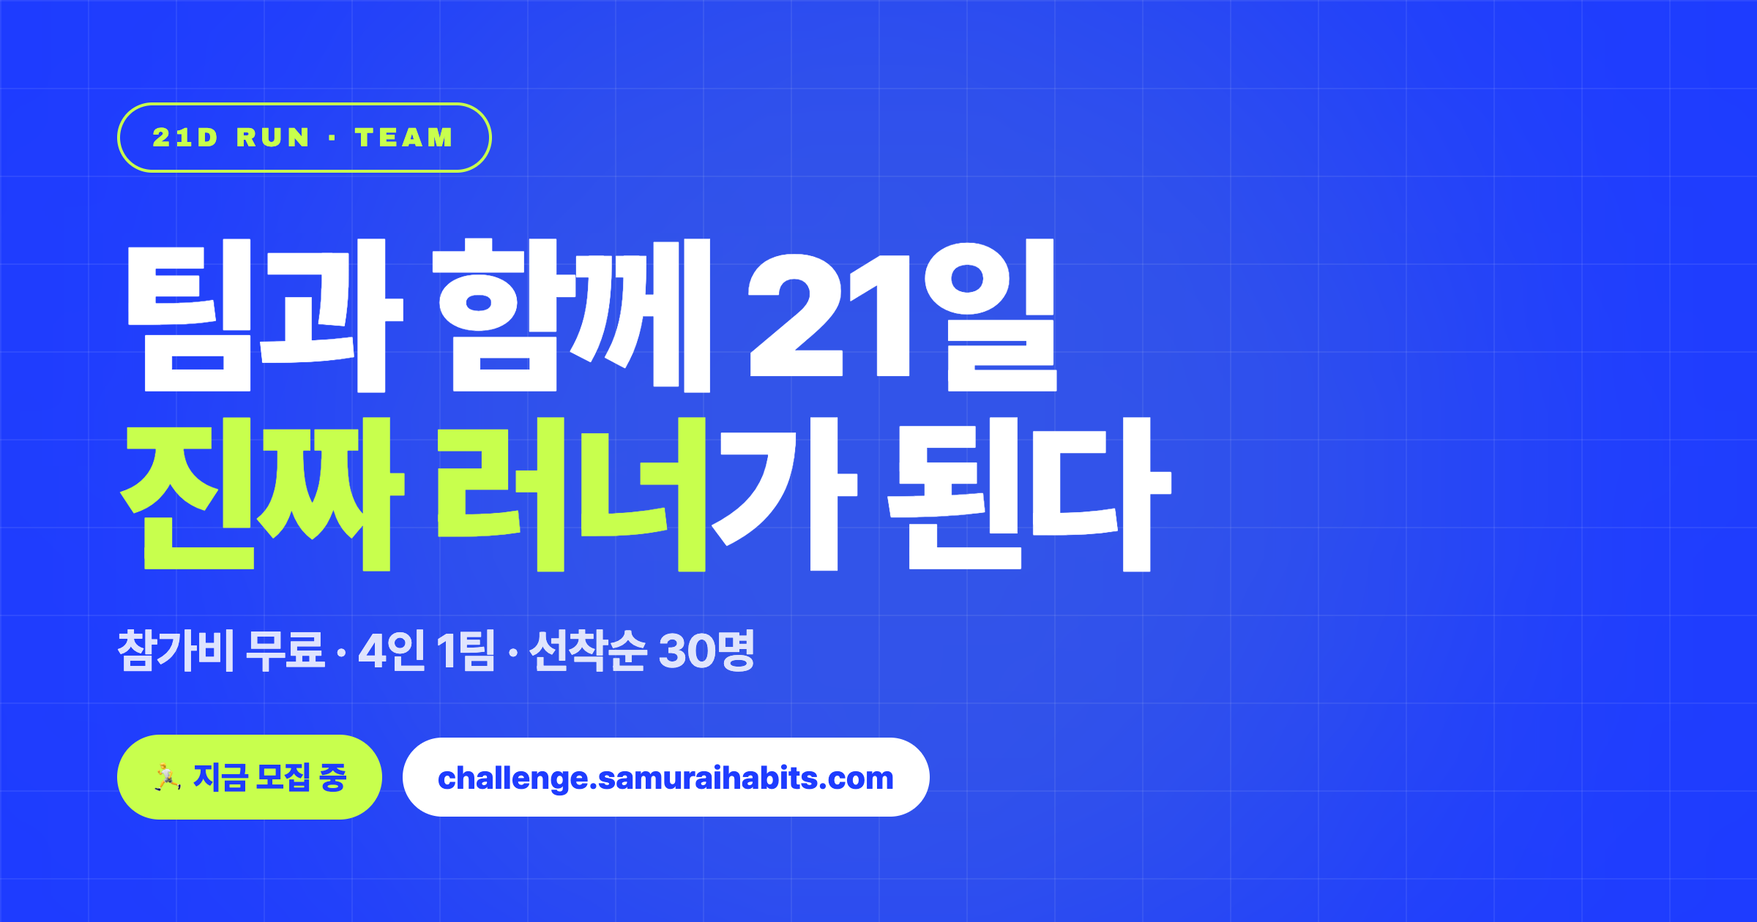
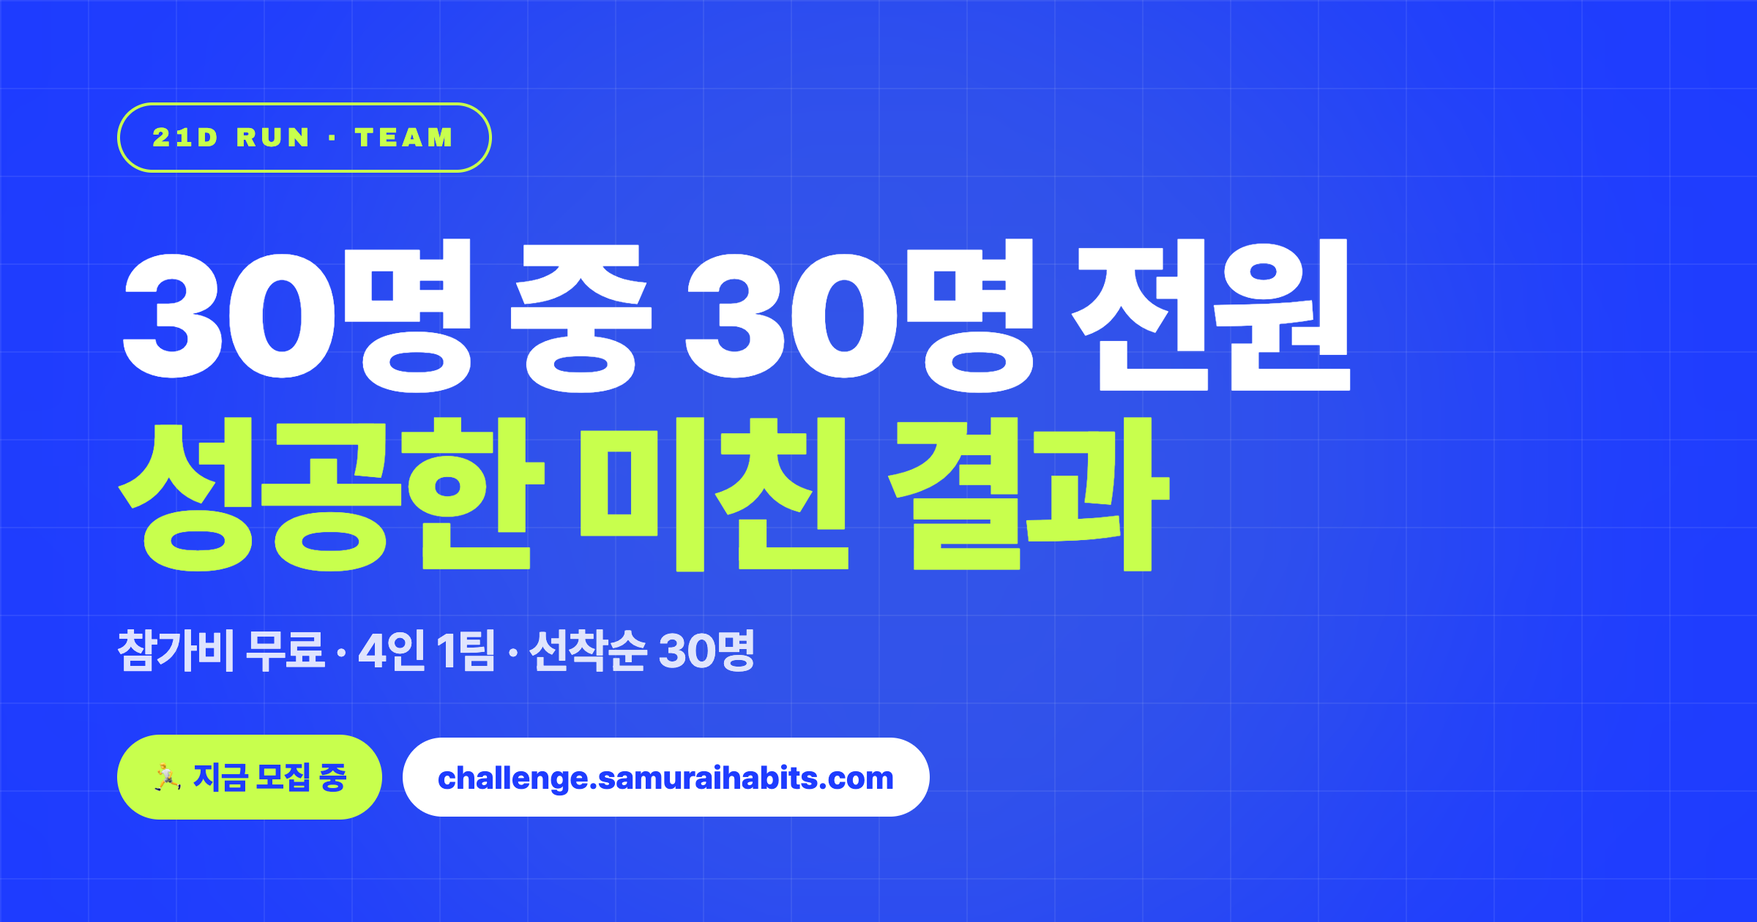
[448-fix5] OG Hero USP + 오늘 자정 보너스 + 식단 가이드
- OG 이미지/메타 Hero USP "30명 중 30명 전원 성공한 미친 결과"로 (og v5)
- 오늘 자정까지 신청 보너스 섹션(BenefitsSection — 1:1 러닝 폼 피드백)
- 21일 1.5끼 식단 가이드(/diet-guide.html) + ApplyDone에 오늘 자정까지 다운로드 링크

Changed region(s): [[0.0625, 0.2476, 0.7812, 0.619]]

diff --git a/public/diet-guide.html b/public/diet-guide.html
@@ -1,0 +1,250 @@
+<!doctype html>
+<html lang="ko">
+<head>
+<meta charset="utf-8" />
+<meta name="viewport" content="width=device-width, initial-scale=1.0" />
+<title>21일 팀 러닝 챌린지 · 식단 가이드 (1.5끼 전략)</title>
+<link href="https://cdn.jsdelivr.net/gh/orioncactus/pretendard@v1.3.9/dist/web/variable/pretendardvariable-dynamic-subset.min.css" rel="stylesheet" />
+<style>
+  :root{
+    --blue:#1e3cff; --lime:#c8ff4d; --ink:#0f172a; --muted:#64748b;
+    --card:#f1f5ff; --line:#e2e8f0; --orange:#f97316;
+  }
+  *{margin:0;padding:0;box-sizing:border-box;}
+  body{
+    font-family:"Pretendard Variable","Pretendard",-apple-system,sans-serif;
+    color:var(--ink); background:#dbe3ff; line-height:1.6;
+    -webkit-print-color-adjust:exact; print-color-adjust:exact;
+  }
+  .toolbar{
+    position:sticky; top:0; z-index:10; background:var(--blue); color:#fff;
+    display:flex; align-items:center; justify-content:space-between;
+    padding:12px 20px; font-weight:700;
+  }
+  .toolbar button{
+    background:var(--lime); color:var(--blue); border:none; border-radius:10px;
+    padding:10px 18px; font-weight:800; font-size:15px; cursor:pointer;
+    font-family:inherit;
+  }
+  .page{
+    width:210mm; min-height:297mm; margin:20px auto; background:#fff;
+    padding:22mm 18mm; box-shadow:0 10px 40px rgba(0,0,0,.15);
+  }
+  .page + .page{ margin-top:24px; }
+
+  .hero{ background:var(--blue); color:#fff; border-radius:20px; padding:34px 32px; position:relative; overflow:hidden; }
+  .hero .pill{ display:inline-block; border:2px solid var(--lime); color:var(--lime); border-radius:999px; padding:6px 16px; font-size:13px; font-weight:800; letter-spacing:.12em; margin-bottom:16px; }
+  .hero h1{ font-size:40px; font-weight:900; line-height:1.15; letter-spacing:-.03em; }
+  .hero h1 .ac{ color:var(--lime); }
+  .hero p{ margin-top:14px; font-size:17px; color:rgba(255,255,255,.85); }
+
+  h2{ font-size:24px; font-weight:900; margin:34px 0 14px; letter-spacing:-.02em; display:flex; align-items:center; gap:10px; }
+  h2 .num{ display:inline-flex; align-items:center; justify-content:center; width:30px; height:30px; background:var(--blue); color:#fff; border-radius:9px; font-size:16px; }
+  h3{ font-size:17px; font-weight:800; margin:18px 0 8px; }
+  p.lead{ color:var(--muted); margin-bottom:14px; }
+
+  .meal-grid{ display:grid; grid-template-columns:1fr 1fr; gap:12px; }
+  .meal{ background:var(--card); border-radius:14px; padding:16px 18px; border-left:5px solid var(--blue); }
+  .meal .t{ font-weight:800; font-size:15px; margin-bottom:4px; }
+  .meal .d{ font-size:14px; color:var(--muted); }
+  .meal.lime{ border-left-color:var(--lime); }
+  .meal.orange{ border-left-color:var(--orange); }
+
+  .note{ background:#eef4ff; border:1px solid var(--line); border-radius:12px; padding:14px 18px; font-size:14.5px; margin-top:14px; }
+  .note b{ color:var(--blue); }
+
+  .two{ display:grid; grid-template-columns:1fr 1fr; gap:14px; }
+  .box{ border-radius:14px; padding:16px 18px; }
+  .box.no{ background:#fef2f2; border:1px solid #fecaca; }
+  .box.ok{ background:#f0fdf4; border:1px solid #bbf7d0; }
+  .box .bt{ font-weight:900; font-size:16px; margin-bottom:8px; }
+  .box.no .bt{ color:#dc2626; }
+  .box.ok .bt{ color:#16a34a; }
+  .chips{ display:flex; flex-wrap:wrap; gap:6px; }
+  .chip{ background:#fff; border:1px solid var(--line); border-radius:8px; padding:5px 10px; font-size:13px; font-weight:600; }
+
+  .balance{ display:grid; grid-template-columns:1fr 1fr; gap:12px; margin-top:8px; }
+  .bcard{ background:var(--card); border-radius:12px; padding:14px 16px; font-size:14px; }
+  .bcard .h{ font-weight:800; margin-bottom:6px; }
+  .bcard.warn{ background:#fff7ed; }
+
+  .legend{ display:flex; gap:18px; margin:6px 0 12px; font-size:13px; font-weight:700; color:var(--muted); }
+  .legend .dot{ display:inline-block; width:14px; height:14px; border-radius:5px; vertical-align:-2px; margin-right:6px; }
+  .dot.green{ background:#16a34a; } .dot.gray{ background:#94a3b8; }
+  .bal-block{ background:var(--card); border-radius:14px; padding:16px 18px; margin-bottom:12px; }
+  .bal-block.warn{ background:#fff7ed; }
+  .bal-title{ font-weight:800; font-size:15px; margin-bottom:12px; }
+  .day-row{ display:flex; align-items:center; gap:8px; margin-bottom:8px; }
+  .day-row .day{ width:30px; height:30px; flex-shrink:0; background:#fff; border:1px solid var(--line); border-radius:8px; display:inline-flex; align-items:center; justify-content:center; font-weight:800; font-size:14px; }
+  .slot{ flex:1; padding:9px 12px; border-radius:9px; font-size:13.5px; font-weight:700; color:#fff; text-align:center; }
+  .slot.green{ background:#16a34a; } .slot.gray{ background:#94a3b8; }
+  .day-tag{ flex-shrink:0; font-size:11px; font-weight:800; padding:5px 9px; border-radius:6px; background:#fed7aa; color:#c2410c; }
+  .tally{ margin-top:8px; font-size:13.5px; font-weight:800; color:var(--blue); }
+
+  .formula{ display:flex; align-items:center; gap:10px; margin:16px 0; }
+  .fcard{ flex:1; border-radius:14px; padding:14px 8px; text-align:center; }
+  .fcard.gray{ background:#f1f5f9; } .fcard.green{ background:#dcfce7; } .fcard.blue{ background:var(--blue); color:#fff; }
+  .fcard .fk{ font-size:13px; font-weight:800; }
+  .fcard .fv{ font-size:26px; font-weight:900; margin:2px 0; }
+  .fcard.blue .fv{ color:var(--lime); }
+  .fcard .fd{ font-size:11px; color:var(--muted); }
+  .fcard.blue .fd{ color:rgba(255,255,255,.8); }
+  .formula .plus{ font-size:22px; font-weight:900; color:var(--muted); }
+  .warn-note{ background:#fff7ed !important; border:1px solid #fed7aa !important; }
+  .warn-note b{ color:#c2410c; }
+
+  .tl-common{ background:var(--card); border-radius:12px; padding:13px 16px; font-size:14px; font-weight:600; text-align:center; }
+  .tl-common.orange{ background:#fff7ed; }
+  .tl-arrow{ text-align:center; color:#cbd5e1; font-size:20px; line-height:1; margin:6px 0; }
+  .pattern-2{ display:grid; grid-template-columns:1fr 1fr; gap:12px; margin:10px 0; }
+  .pat{ background:#fff; border:1.5px solid var(--line); border-radius:14px; padding:14px; }
+  .pat-h{ font-size:12.5px; font-weight:800; color:var(--blue); margin-bottom:10px; text-align:center; }
+  .pslot{ padding:11px; border-radius:9px; font-size:14px; font-weight:800; color:#fff; text-align:center; margin-bottom:8px; }
+  .pslot:last-child{ margin-bottom:0; }
+  .pslot.green{ background:#16a34a; } .pslot.gray{ background:#94a3b8; }
+
+  .timeline{ display:grid; grid-template-columns:1fr 1fr 1fr; gap:12px; }
+  .week{ background:var(--card); border-radius:14px; padding:16px; }
+  .week .wk{ font-size:12px; font-weight:800; color:var(--blue); letter-spacing:.1em; }
+  .week h4{ font-size:16px; font-weight:900; margin:4px 0 6px; }
+  .week p{ font-size:13.5px; color:var(--muted); }
+
+  .stat{ display:flex; gap:14px; align-items:stretch; margin-top:8px; }
+  .stat .s{ flex:1; background:var(--card); border-radius:14px; padding:18px; text-align:center; }
+  .stat .s .big{ font-size:30px; font-weight:900; color:var(--blue); }
+  .stat .s.hi{ background:var(--blue); color:#fff; }
+  .stat .s.hi .big{ color:var(--lime); }
+  .stat .s .lab{ font-size:13px; color:var(--muted); margin-top:4px; }
+  .stat .s.hi .lab{ color:rgba(255,255,255,.8); }
+
+  .run{ background:#0f172a; color:#fff; border-radius:16px; padding:22px 24px; }
+  .run h3{ color:var(--lime); margin-top:0; }
+  .run .row{ display:flex; gap:12px; margin-top:12px; }
+  .run .r{ flex:1; background:rgba(255,255,255,.06); border-radius:12px; padding:14px; }
+  .run .r .rt{ font-weight:800; font-size:14px; color:var(--lime); margin-bottom:4px; }
+  .run .r .rd{ font-size:13.5px; color:rgba(255,255,255,.85); }
+
+  .footer{ margin-top:28px; padding-top:16px; border-top:2px solid var(--line); color:var(--muted); font-size:13px; display:flex; justify-content:space-between; }
+
+  @media print{
+    body{ background:#fff; }
+    .toolbar{ display:none; }
+    .page{ width:auto; min-height:auto; margin:0; box-shadow:none; padding:14mm; page-break-after:always; }
+    .page:last-child{ page-break-after:auto; }
+  }
+  @page{ size:A4; margin:0; }
+</style>
+</head>
+<body>
+<div class="toolbar">
+  <span>🥗 21일 식단 가이드 · 1.5끼 전략</span>
+  <button onclick="window.print()">📄 PDF로 저장 / 인쇄</button>
+</div>
+
+<!-- PAGE 1 -->
+<div class="page">
+  <div class="hero">
+    <span class="pill">TEAM RUN · DIET GUIDE</span>
+    <h1>21일 동안 <span class="ac">-3kg</span><br/>1.5끼 전략으로.</h1>
+    <p>살은 식단으로 뺀다. 러닝은 습관을 만든다.<br/>굶지 않고 스마트하게 — 하루 3끼를 1.5끼로 줄이는 법.</p>
+  </div>
+
+  <h2><span class="num">1</span>1.5끼가 뭐야?</h2>
+  <p class="lead"><b>일반식은 1끼, 건강식은 0.5끼로 쳐.</b> 합쳐서 하루 1.5끼.</p>
+  <div class="formula">
+    <div class="fcard gray"><div class="fk">🍚 일반식</div><div class="fv">1끼</div><div class="fd">먹고 싶은 음식</div></div>
+    <span class="plus">+</span>
+    <div class="fcard green"><div class="fk">🥗 건강식</div><div class="fv">0.5끼</div><div class="fd">닭가슴살·샐러드</div></div>
+    <span class="plus">=</span>
+    <div class="fcard blue"><div class="fk">하루</div><div class="fv">1.5끼</div><div class="fd">병행이 핵심</div></div>
+  </div>
+  <div class="note warn-note">
+    <b>⚠ 닭가슴살·고구마·야채만 무리하게 먹으면 다이어트는 무조건 실패해.</b><br/>
+    먹고 싶은 걸 참는 게 아니라, <b>먹고 싶은 음식(일반식)과 건강식을 '병행'</b>하는 게 핵심이야. 그래야 21일을 버티고, 끝나도 유지돼.
+  </div>
+  <div class="note">
+    <b>21일 -3kg 목표</b> — 주당 약 1kg, 무리 없는 속도. 러닝으로 소비를 늘리고 1.5끼로 섭취를 줄이면 자연스럽게 빠져.
+  </div>
+
+  <h2><span class="num">2</span>하루 1.5끼 타임라인</h2>
+  <p class="lead">아침은 가볍게, 점심·저녁 중 <b>하나만 건강식.</b> 약속·스케줄에 맞춰 아래 두 패턴 중 편한 쪽을 골라.</p>
+  <div class="tl-common">☕ <b>아침 · 에너지 포션</b> — 아메리카노 + 사과 1개(껍질째). 가볍게 시동만.</div>
+  <div class="tl-arrow">▼</div>
+  <div class="pattern-2">
+    <div class="pat">
+      <div class="pat-h">패턴 A · 저녁에 약속/외식이 있는 날</div>
+      <div class="pslot green">점심 · 🥗 건강식</div>
+      <div class="pslot gray">저녁 · 🍚 일반식</div>
+    </div>
+    <div class="pat">
+      <div class="pat-h">패턴 B · 점심에 약속/외식이 있는 날</div>
+      <div class="pslot gray">점심 · 🍚 일반식</div>
+      <div class="pslot green">저녁 · 🥗 건강식</div>
+    </div>
+  </div>
+  <div class="tl-arrow">▼</div>
+  <div class="tl-common orange">🥕 <b>간식 · 공복 방어 실드</b> — 오이 · 당근 · 단백질바. 너무 배고프면 참지 말고 이걸로.</div>
+  <div class="note">💡 <b>약속·본인 스케줄·생활 패턴</b>에 맞춰 유연하게 골라. 중요한 건 하루 <b>일반식 1 + 건강식 0.5 = 1.5끼</b>를 지키는 거.</div>
+
+  <div class="footer">
+    <span>21일 팀 러닝 챌린지 · 식단 가이드</span><span>1 / 2</span>
+  </div>
+</div>
+
+<!-- PAGE 2 -->
+<div class="page">
+  <h2><span class="num">3</span>이것만은 NO</h2>
+  <div class="box no">
+    <div class="bt">🚫 이 음식만 피하자</div>
+    <div class="chips">
+      <span class="chip">튀김류(치킨·돈까스·탕수육)</span><span class="chip">과자</span>
+      <span class="chip">짜장면·짬뽕</span><span class="chip">삼겹살</span>
+      <span class="chip">디저트(초콜릿케이크 등)</span><span class="chip">칼로리 음료(주스·라떼·스무디)</span>
+      <span class="chip">술</span>
+    </div>
+  </div>
+  <div class="note"><b>이것만 빼면 나머지는 다 먹어도 돼.</b> 밥·고기·생선·계란·두부·야채, 평소 먹던 대로 위 음식만 피하면 돼.</div>
+  <div class="note">
+    <b>참지 말고 똑똑하게 대체해</b><br/>
+    🍗 치킨 → <b>구운 닭</b> &nbsp;·&nbsp; 🥢 중국집 → <b>볶음밥</b> &nbsp;·&nbsp; 🍪 과자 → <b>당근</b> &nbsp;·&nbsp; 🍫 단 거 당기면 → <b>단백질바</b> &nbsp;·&nbsp; 🥤 음료 → <b>제로 · 아메리카노</b>
+  </div>
+
+  <h2><span class="num">4</span>2일 밸런스 규칙</h2>
+  <p class="lead">변수가 생겨도 괜찮아. <b>이틀 안에 밸런스만 맞추면</b> 돼. 죄책감 대신 보상으로.</p>
+  <div class="legend">
+    <span><i class="dot green"></i>건강식 (닭가슴살·샐러드·계란)</span>
+    <span><i class="dot gray"></i>일반식 (금지 음식만 피한 평소 식사)</span>
+  </div>
+  <div class="bal-block">
+    <div class="bal-title">✅ 일반적인 이틀</div>
+    <div class="day-row"><span class="day">월</span><span class="slot gray">점심 · 일반식</span><span class="slot green">저녁 · 건강식</span></div>
+    <div class="day-row"><span class="day">화</span><span class="slot green">점심 · 건강식</span><span class="slot gray">저녁 · 일반식</span></div>
+    <div class="tally">→ 건강식 2 · 일반식 2 = 밸런스 ✓</div>
+  </div>
+  <div class="bal-block warn">
+    <div class="bal-title">⚡ 회식이 생긴 날</div>
+    <div class="day-row"><span class="day">수</span><span class="slot gray">점심 · 일반식</span><span class="slot gray">저녁 · 일반식</span><span class="day-tag">회식 OK</span></div>
+    <div class="day-row"><span class="day">목</span><span class="slot green">점심 · 건강식</span><span class="slot green">저녁 · 건강식</span><span class="day-tag">보상</span></div>
+    <div class="tally">→ 이틀 합산 건강식 2 · 일반식 2 = 밸런스 ✓</div>
+  </div>
+  <div class="note">하루 무너졌다고 포기하지 마. <b>이틀 안에만 맞추면 OK.</b></div>
+
+  <h2><span class="num">5</span>21일 플랜 &amp; 목표</h2>
+  <div class="timeline">
+    <div class="week"><div class="wk">WEEK 1</div><h4>끊고 적응</h4><p>금지 음식 끊기 + 1.5끼 시작. 간식 실드 적극 활용.</p></div>
+    <div class="week"><div class="wk">WEEK 2</div><h4>밸런스 습관</h4><p>2일 밸런스 규칙 체화. 1.5끼 리듬 고정.</p></div>
+    <div class="week"><div class="wk">WEEK 3</div><h4>-3kg 도달</h4><p>몸이 가벼워지는 게 느껴지는 구간. 끝까지 페이스 유지.</p></div>
+  </div>
+  <h3 style="margin-top:26px;">📊 21일 다 했을 때, 이만큼 빠져</h3>
+  <div class="stat">
+    <div class="s"><div class="big">-1kg</div><div class="lab">러닝만 했을 때</div></div>
+    <div class="s hi"><div class="big">-3kg↑</div><div class="lab">러닝 + 1.5끼 식단</div></div>
+    <div class="s"><div class="big">3배</div><div class="lab">성공 확률</div></div>
+  </div>
+
+  <div class="footer">
+    <span>혼자선 맨날 실패한 러닝, 팀이 만들어줘.</span><span>2 / 2</span>
+  </div>
+</div>
+</body>
+</html>

diff --git a/src/components/s2/BenefitsSection.jsx b/src/components/s2/BenefitsSection.jsx
@@ -1,0 +1,52 @@
+import AnimateOnScroll from '../ui/AnimateOnScroll';
+import CountdownTimer from '../ui/CountdownTimer';
+import { COHORT2 } from '../../data/config2';
+
+// 시즌1 BenefitsSection의 "러닝 폼 1:1 영상 분석" 혜택 재사용.
+// 시즌2: 오늘 자정까지 신청 시 1:1 러닝 폼 무료 피드백 (만료 시 섹션 자동 숨김).
+const benefits = [
+  { icon: '🎥', title: '1:1 러닝 폼 영상 분석', desc: '챌린지 기간 내 영상 찍어서 요청 3회까지 · 5만원 가치', value: '50,000원' },
+];
+
+export default function BenefitsSection() {
+  const active = new Date() < new Date(COHORT2.formFeedbackBonusExpireAt);
+  if (!active) return null;
+
+  return (
+    <section className="px-6 py-14 max-w-lg mx-auto">
+      <AnimateOnScroll>
+        <div className="text-center mb-3">
+          <span className="pill text-accent-orange">TODAY ONLY · 오늘 자정 마감</span>
+        </div>
+        <h2 className="font-kr text-3xl md:text-5xl font-black text-center mb-2 text-text-primary leading-tight">
+          오늘 자정까지 신청하면<br /><span className="text-accent-orange">1:1 러닝 폼 무료 피드백</span>
+        </h2>
+        <p className="text-text-muted text-center text-sm mb-5 font-semibold">
+          오늘 자정 지나면 사라지는 혜택
+        </p>
+        <div className="flex justify-center mb-6">
+          <CountdownTimer targetDate={COHORT2.formFeedbackBonusExpireAt} size="md" />
+        </div>
+      </AnimateOnScroll>
+
+      <AnimateOnScroll>
+        <div className="space-y-3">
+          {benefits.map((b, i) => (
+            <div key={i} className="bg-bg-card rounded-3xl p-5 flex items-start gap-4 shadow-[0_12px_30px_rgba(0,0,0,0.15)] border-l-[6px] border-accent-orange">
+              <div className="text-3xl shrink-0">{b.icon}</div>
+              <div className="flex-1">
+                <div className="flex items-center justify-between gap-2 mb-1">
+                  <p className="text-card-ink font-bold">{b.title}</p>
+                  {b.value && (
+                    <span className="text-bg-primary text-xs font-extrabold whitespace-nowrap bg-bg-primary/10 px-2 py-0.5 rounded-full">{b.value}</span>
+                  )}
+                </div>
+                <p className="text-card-ink-muted text-sm">{b.desc}</p>
+              </div>
+            </div>
+          ))}
+        </div>
+      </AnimateOnScroll>
+    </section>
+  );
+}

diff --git a/src/pages/ApplyDonePage.jsx b/src/pages/ApplyDonePage.jsx
@@ -1,6 +1,7 @@
 import { useState } from 'react';
 import { Link, useLocation } from 'react-router-dom';
 import { track } from '@vercel/analytics';
+import { COHORT2 } from '../data/config2';
 
 export default function ApplyDonePage() {
   const location = useLocation();
@@ -9,6 +10,8 @@ export default function ApplyDonePage() {
   const isReferral = !!navState.isReferral;
   // 트랙 분리: 사전신청자는 6/22 빠른 합격, 정식 지원자는 6/26.
   const resultDate = isReferral ? '6/22(월)' : '6/26(금)';
+  // 식단 가이드는 오늘 자정까지 신청자만 노출
+  const dietGuideActive = new Date() < new Date(COHORT2.formFeedbackBonusExpireAt);
   const [linkCopied, setLinkCopied] = useState(false);
 
   const handleCopy = async () => {
@@ -54,6 +57,27 @@ export default function ApplyDonePage() {
             합격 시 {resultDate}까지 입금해야 선발 확정돼.
           </p>
         </div>
+
+        {dietGuideActive && (
+          <a
+            href="/diet-guide.html"
+            target="_blank"
+            rel="noopener noreferrer"
+            onClick={() => track('apply_done_diet_guide')}
+            className="bg-accent-green rounded-[28px] p-7 w-full shadow-[0_24px_60px_rgba(0,0,0,0.2)] block hover:brightness-105 transition-all"
+          >
+            <span className="inline-block bg-bg-primary/15 text-bg-primary text-[11px] font-extrabold px-3 py-1 rounded-full mb-3">TODAY ONLY · 오늘 자정까지</span>
+            <h3 className="font-kr text-2xl font-black text-bg-primary mb-2 leading-tight">
+              21일 식단 가이드 받기
+            </h3>
+            <p className="text-bg-primary/80 text-sm leading-relaxed mb-4">
+              오늘 신청한 너에게만 — 1.5끼 전략 식단 가이드 (5만원 가치). 21일 동안 -3kg 목표.
+            </p>
+            <span className="block w-full bg-bg-primary text-white font-extrabold py-4 rounded-2xl text-center">
+              식단 가이드 PDF 받기 →
+            </span>
+          </a>
+        )}
 
         {/* 2) Friend Bonus 카드 */}
         <div className="bg-bg-card rounded-[28px] p-7 w-full shadow-[0_24px_60px_rgba(0,0,0,0.2)]">

diff --git a/index.html b/index.html
@@ -3,18 +3,18 @@
   <head>
     <meta charset="UTF-8" />
     <meta name="viewport" content="width=device-width, initial-scale=1.0" />
-    <title>팀과 함께 21일, 진짜 러너가 된다 · 러닝 챌린지 모집</title>
+    <title>30명 중 30명 전원 성공한 미친 결과 · 러닝 챌린지 모집</title>
     <meta name="description" content="참가비 무료. 보증금 20만원은 완주 시 100% 환급. 4인 1팀, 선착순 30명. 1등 팀 DARIMATI 러닝화 60만원." />
-    <meta property="og:title" content="팀과 함께 21일, 진짜 러너가 된다" />
-    <meta property="og:description" content="혼자 못 한 러닝, 팀이 만들어줘. 참가비 무료 · 4인 1팀 · 선착순 30명" />
+    <meta property="og:title" content="30명 중 30명 전원 성공한 미친 결과" />
+    <meta property="og:description" content="혼자선 맨날 실패한 러닝, 팀이 만들어줘 · 참가비 무료 · 4인 1팀 · 선착순 30명" />
     <meta property="og:type" content="website" />
-    <meta property="og:image" content="/og-image.png?v=4" />
+    <meta property="og:image" content="/og-image.png?v=5" />
     <meta property="og:url" content="https://challenge.samuraihabits.com" />
     <meta property="og:locale" content="ko_KR" />
     <meta name="twitter:card" content="summary_large_image" />
-    <meta name="twitter:title" content="팀과 함께 21일, 진짜 러너가 된다" />
+    <meta name="twitter:title" content="30명 중 30명 전원 성공한 미친 결과" />
     <meta name="twitter:description" content="참가비 무료 · 4인 1팀 · 선착순 30명" />
-    <meta name="twitter:image" content="/og-image.png?v=4" />
+    <meta name="twitter:image" content="/og-image.png?v=5" />
     <meta name="theme-color" content="#1e3cff" />
     <link rel="icon" type="image/svg+xml" href="/favicon.svg" />
     <link rel="preconnect" href="https://cdn.jsdelivr.net" crossorigin />

diff --git a/src/LandingPageS2.jsx b/src/LandingPageS2.jsx
@@ -10,6 +10,7 @@ import GameSection from './components/s2/GameSection';
 import MoneyMechanicSection from './components/s2/MoneyMechanicSection';
 import TestimonialSection from './components/sections/TestimonialSection';
 import PricingSection from './components/s2/PricingSection';
+import BenefitsSection from './components/s2/BenefitsSection';
 import LiveApplicantsSection from './components/s2/LiveApplicantsSection';
 import UrgencySection from './components/s2/UrgencySection';
 import FAQSection from './components/s2/FAQSection';
@@ -82,6 +83,7 @@ export default function LandingPageS2() {
           </section>
         )}
         <PricingSection onCTA={handleCTA} />
+        {!isClosed && <BenefitsSection />}
         <InstagramSection />
         {!isClosed && <UrgencySection />}
         <FAQSection />

diff --git a/src/data/config2.js b/src/data/config2.js
@@ -15,6 +15,8 @@ export const COHORT2 = {
   otDate: '2026-06-28',       // 온라인 OT 6/28(일)
   startDate: '2026-06-29',    // 챌린지 시작 6/29(월) — 페이지 미노출
   finalDate: '2026-07-19',    // 파이널 레이스 (일요일) — 내부
+  // 오늘(6/23) 자정까지 신청 시 1:1 러닝 폼 무료 피드백 보너스
+  formFeedbackBonusExpireAt: '2026-06-24T00:00:00+09:00',
   totalSpots: 30,
 };
 
